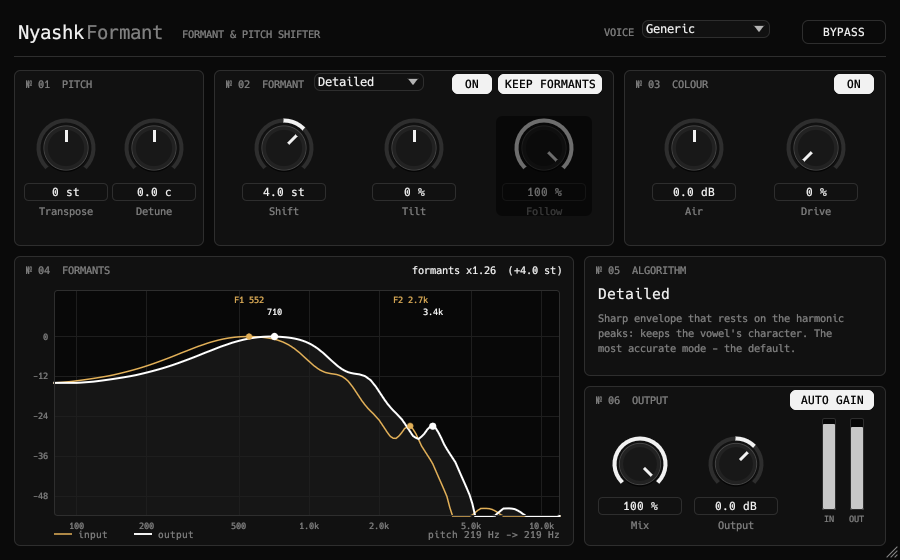
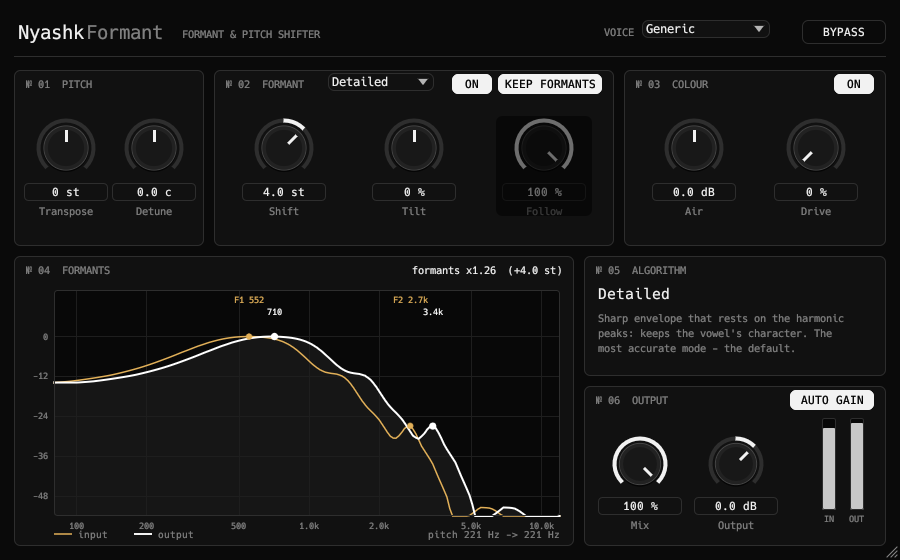
Check pass: HF boost cap, visual states, more tests
Formant filter boost fades out above 8 kHz (no hiss at big shifts with
Tilt). GUI: bypassed / formant-off states in the formant view, Tilt
dimmed for Classic, pitch readout held between syllables, ON tooltip
fixed, algorithm box no longer touches its label. Tests: automation of
every knob, +-12 st with full Tilt, 44.1 and 96 kHz.

Claude-Session: https://claude.ai/code/session_013jKKu2jZ6gVHt6eEoTXE3F

diff --git a/plugins/nyashkformant/tests/formant_quality.rs b/plugins/nyashkformant/tests/formant_quality.rs
@@ -150,6 +150,47 @@ fn worst_jump(x: &[f32]) -> f64 {
     worst
 }
 
+/// Clicks: a step in the waveform is broadband, so it adds energy at the very top of the spectrum.
+/// The shifter leaves everything above 16 kHz at unity gain, so the energy above 17 kHz of the
+/// output should match the input's, block by block (20 ms). Returns the worst excess in dB.
+/// Run with Auto Gain off (it lifts the whole output, the untouched top octave included).
+fn hf_excess(x: &[f32], y: &[f32]) -> f64 {
+    let hp = |z: &[f32]| -> Vec<f64> {
+        // 4th-order Butterworth high-pass at 17 kHz (two biquads)
+        let mut v: Vec<f64> = z.iter().map(|s| *s as f64).collect();
+        for q in [0.5412f64, 1.3066] {
+            let w0 = 2.0 * PI * 17000.0 / FS;
+            let (cw, sw) = (w0.cos(), w0.sin());
+            let alpha = sw / (2.0 * q);
+            let (b0, b1, b2) = ((1.0 + cw) / 2.0, -(1.0 + cw), (1.0 + cw) / 2.0);
+            let (a0, a1, a2) = (1.0 + alpha, -2.0 * cw, 1.0 - alpha);
+            let (mut x1, mut x2, mut y1, mut y2) = (0.0, 0.0, 0.0, 0.0);
+            for s in v.iter_mut() {
+                let o = (b0 * *s + b1 * x1 + b2 * x2 - a1 * y1 - a2 * y2) / a0;
+                x2 = x1;
+                x1 = *s;
+                y2 = y1;
+                y1 = o;
+                *s = o;
+            }
+        }
+        v
+    };
+    let (hx, hy) = (hp(x), hp(y));
+    let n = hx.len().min(hy.len());
+    let blk = 960;
+    let floor = hx.iter().map(|v| v * v).sum::<f64>() / n as f64 * blk as f64 * 0.05;
+    let g2 = 1.0;
+    let mut worst = -100.0f64;
+    for b in (blk..n - blk).step_by(blk) {
+        let ex: f64 = hx[b..b + blk].iter().map(|v| v * v).sum();
+        let ey: f64 = hy[b..b + blk].iter().map(|v| v * v).sum();
+        let v = 10.0 * ((ey + floor * g2) / ((ex + floor) * g2)).log10();
+        worst = worst.max(v);
+    }
+    worst
+}
+
 const AH: [(f64, f64); 3] = [(700.0, 90.0), (1150.0, 110.0), (2700.0, 160.0)];
 
 #[test]
@@ -209,10 +250,18 @@ fn no_clicks_in_any_mode() {
     let ref_jump = worst_jump(&x);
     for mode in [FormantMode::Classic, FormantMode::Smooth, FormantMode::Detailed, FormantMode::Lpc, FormantMode::Bend] {
         for (st, tr) in [(5.0f32, 0.0f32), (-5.0, 0.0), (3.0, -5.0), (-3.0, 7.0)] {
-            let y = run(&x, &params(mode, st, tr));
-            let j = worst_jump(&y);
+            let mut p = params(mode, st, tr);
+            p.auto_gain = false;
+            let y = run(&x, &p);
             assert!(y.iter().all(|v| v.is_finite()));
-            assert!(j < (ref_jump * 1.6).max(14.0), "{mode:?} shift {st} transpose {tr}: jump {j:.1} (input {ref_jump:.1})");
+            if tr == 0.0 {
+                let h = hf_excess(&x, &y);
+                assert!(h < 3.0, "{mode:?} shift {st}: {h:.1} dB more energy above 17 kHz (clicks)");
+            } else {
+                // transposed: the top octave moves too, so look at the waveform steps instead
+                let j = worst_jump(&y);
+                assert!(j < (ref_jump * 1.6).max(14.0), "{mode:?} shift {st} transpose {tr}: jump {j:.1} (input {ref_jump:.1})");
+            }
         }
     }
 }
@@ -228,5 +277,107 @@ fn neutral_settings_are_transparent() {
     let snr = 10.0 * (sig / err).log10();
     eprintln!("neutral: SNR {snr:.1} dB");
     assert!(snr > 25.0, "neutral settings change the sound: SNR {snr:.1} dB");
+}
+
+
+/// Moving the knobs while the voice plays (shift sweep, transpose steps, algorithm switches)
+/// must not click either.
+#[test]
+fn automation_does_not_click() {
+    let x = vowel(50.0, 4.0, &AH);
+    let mut p = params(FormantMode::Detailed, 0.0, 0.0);
+    p.auto_gain = false;
+    let mut e = Engine::new(FS, p.min_hz);
+    e.set_params(&p);
+    let mut y = Vec::with_capacity(x.len());
+    // the spectral modes leave the top octave alone, so clicks show there (Classic resamples the
+    // whole grain and transposing changes the pulse rate: both are checked by the waveform steps
+    // in no_clicks_in_any_mode)
+    let modes = [FormantMode::Smooth, FormantMode::Detailed, FormantMode::Lpc, FormantMode::Bend];
+    for (i, &s) in x.iter().enumerate() {
+        if i % 512 == 0 {
+            let t = i as f64 / FS;
+            p.formant_semis = (12.0 * (2.0 * PI * 0.4 * t).sin()) as f32;
+            p.transpose = 0.0;
+            p.formant_mode = modes[(t / 0.45) as usize % modes.len()];
+            p.formant_preserve = (t / 1.3) as usize % 2 == 0;
+            p.formant_follow = 0.5;
+            p.formant_tilt = (0.8 * (2.0 * PI * 0.3 * t).cos()) as f32;
+            e.set_params(&p);
+        }
+        y.push(e.process_frame([s, s], 1)[0]);
+    }
+    let h = hf_excess(&x[(0.2 * FS) as usize..], &y[(0.2 * FS) as usize..]);
+    eprintln!("automation: {h:+.1} dB above 17 kHz");
+    assert!(y.iter().all(|v| v.is_finite()));
+    assert!(h < 3.0, "{h:.1} dB more energy above 17 kHz (clicks)");
+}
+
+/// The same checks at 44.1 and 96 kHz (FFT sizes and analysis lengths depend on the rate).
+#[test]
+fn other_sample_rates() {
+    for fs in [44100.0f64, 96000.0] {
+        // resample the 48 kHz vowel by linear interpolation (a smooth signal: good enough)
+        let x48 = vowel(50.0, 3.0, &AH);
+        let n = (x48.len() as f64 * fs / FS) as usize;
+        let x: Vec<f32> = (0..n)
+            .map(|i| {
+                let pos = i as f64 * FS / fs;
+                let k = (pos as usize).min(x48.len() - 2);
+                let fr = (pos - k as f64) as f32;
+                x48[k] * (1.0 - fr) + x48[k + 1] * fr
+            })
+            .collect();
+        for (st, tr) in [(4.0f32, 0.0f32), (-4.0, 0.0), (0.0, 7.0)] {
+            let p = params(FormantMode::Detailed, st, tr);
+            let mut e = Engine::new(fs, p.min_hz);
+            e.set_params(&p);
+            let lat = e.latency_samples() as usize;
+            let mut y = Vec::new();
+            for &s in x.iter().chain(std::iter::repeat(&0.0).take(lat)) {
+                y.push(e.process_frame([s, s], 1)[0]);
+            }
+            let y = &y[lat..];
+            assert!(y.iter().all(|v| v.is_finite()));
+            // back to 48 kHz for the measurements
+            let back = |z: &[f32]| -> Vec<f32> {
+                let m = (z.len() as f64 * FS / fs) as usize;
+                (0..m)
+                    .map(|i| {
+                        let pos = i as f64 * fs / FS;
+                        let k = (pos as usize).min(z.len() - 2);
+                        let fr = (pos - k as f64) as f32;
+                        z[k] * (1.0 - fr) + z[k + 1] * fr
+                    })
+                    .collect()
+            };
+            let (xb, yb) = (back(&x), back(y));
+            let got = envelope_shift(&xb, &yb);
+            let pr = f0(&yb) / f0(&xb);
+            let want_p = 2f64.powf(tr as f64 / 12.0);
+            eprintln!("{fs} Hz shift {st:+} transpose {tr:+}: envelope {got:+.2} st, pitch ratio {pr:.3}");
+            assert!((got - st as f64).abs() < 0.25 * st.abs().max(2.0) as f64, "{fs}: envelope moved {got:.2}");
+            assert!((pr / want_p - 1.0).abs() < 0.015, "{fs}: pitch ratio {pr:.3}");
+        }
+    }
+}
+
+#[test]
+fn big_shifts_do_not_click() {
+    let x = vowel(50.0, 2.5, &AH);
+    for mode in [FormantMode::Classic, FormantMode::Smooth, FormantMode::Detailed, FormantMode::Lpc, FormantMode::Bend] {
+        for (st, tilt) in [(12.0f32, 0.0f32), (-12.0, 0.0), (9.0, 0.8), (-9.0, -0.8), (12.0, -0.8), (-12.0, 0.8)] {
+            if mode == FormantMode::Classic && st > 0.0 {
+                continue; // resampling moves real content up there (checked by waveform steps)
+            }
+            let mut p = params(mode, st, 0.0);
+            p.formant_tilt = tilt;
+            p.auto_gain = false; // it lifts everything, the untouched top octave included
+            let y = run(&x, &p);
+            let h = hf_excess(&x, &y);
+            eprintln!("{mode:?} shift {st:+} tilt {tilt:+}: {h:+.1} dB above 17 kHz");
+            assert!(h < 3.0, "{mode:?} shift {st} tilt {tilt}: {h:.1} dB more energy above 17 kHz (clicks)");
+        }
+    }
 }
 

diff --git a/plugins/nyashkformant/src/editor.rs b/plugins/nyashkformant/src/editor.rs
@@ -36,6 +36,8 @@ struct Gui {
     env: [f32; ENV_N],
     env_ok: bool,
     last_env: f64,
+    hz: f32,
+    last_hz: f64,
 }
 
 fn set_norm<P: Param>(setter: &ParamSetter, p: &P, v: f32) {
@@ -282,7 +284,7 @@ pub fn create(params: Arc<NyashkFormantParams>, meters: Arc<Meters>) -> Option<B
     let size_state = editor_state.clone();
     create_egui_editor(
         editor_state,
-        Gui { in_lv: 0.0, out_lv: 0.0, env: [-120.0; ENV_N], env_ok: false, last_env: -10.0 },
+        Gui { in_lv: 0.0, out_lv: 0.0, env: [-120.0; ENV_N], env_ok: false, last_env: -10.0, hz: 0.0, last_hz: -10.0 },
         |ctx, _| {
             let mut v = egui::Visuals::dark();
             v.panel_fill = BG;
@@ -318,6 +320,38 @@ pub fn create(params: Arc<NyashkFormantParams>, meters: Arc<Meters>) -> Option<B
             DEMO.call_once(|| {
                 if let Some(v) = std::env::var("NYASHK_DEMO_SHIFT").ok().and_then(|v| v.parse::<f32>().ok()) {
                     set_norm(setter, &p.shift, p.shift.preview_normalized(v));
+                }
+                // NYASHK_DEMO_SET="transpose=7,keep=0,algo=4,..." (screenshots of other states)
+                for kv in std::env::var("NYASHK_DEMO_SET").unwrap_or_default().split(',') {
+                    let Some((k, v)) = kv.split_once('=') else { continue };
+                    let Ok(v) = v.trim().parse::<f32>() else { continue };
+                    let fp = match k.trim() {
+                        "transpose" => Some(&p.transpose),
+                        "detune" => Some(&p.detune),
+                        "shift" => Some(&p.shift),
+                        "tilt" => Some(&p.tilt),
+                        "follow" => Some(&p.follow),
+                        "air" => Some(&p.air),
+                        "drive" => Some(&p.drive),
+                        "mix" => Some(&p.mix),
+                        "out" => Some(&p.out_gain),
+                        _ => None,
+                    };
+                    if let Some(fp) = fp {
+                        set_norm(setter, fp, fp.preview_normalized(v));
+                        continue;
+                    }
+                    match k.trim() {
+                        "formanton" => set_b(setter, &p.formant_on, v > 0.5),
+                        "keep" => set_b(setter, &p.keep_formants, v > 0.5),
+                        "colour" => set_b(setter, &p.colour_on, v > 0.5),
+                        "autogain" => set_b(setter, &p.auto_gain, v > 0.5),
+                        "bypass" => set_b(setter, &p.bypass, v > 0.5),
+                        "algo" => set_e(setter, &p.fmode, FormantAlgo::from_index(v as usize)),
+                        "range" => set_e(setter, &p.range, VoiceRange::from_index(v as usize)),
+                        "size" => size_state.set_requested_size((v as u32, (v * BASE_H / BASE_W) as u32)),
+                        _ => {}
+                    }
                 }
             });
             // ---- meters and the envelope
@@ -374,10 +408,10 @@ pub fn create(params: Arc<NyashkFormantParams>, meters: Arc<Meters>) -> Option<B
                 panel(ui, r02, "№ 02  FORMANT");
                 let fon = p.formant_on.value();
                 let algo = p.fmode.value();
-                if let Some(nv) = enum_combo::<FormantAlgo>(ui, "algo", rect(214.0 + 100.0, y1 + 3.0, 132.0, 22.0), algo, algo.name()) {
+                if let Some(nv) = enum_combo::<FormantAlgo>(ui, "algo", rect(214.0 + 114.0, y1 + 3.0, 128.0, 22.0), algo, algo.name()) {
                     set_e(setter, &p.fmode, nv);
                 }
-                if pill(ui, rect(214.0 + 400.0 - 12.0 - 104.0 - 6.0 - 40.0, y1 + 4.0, 40.0, 20.0), "ON", fon, "Formant processing on / off.\nOff: the formants follow the pitch like a plain pitch shifter.") {
+                if pill(ui, rect(214.0 + 400.0 - 12.0 - 104.0 - 6.0 - 40.0, y1 + 4.0, 40.0, 20.0), "ON", fon, "Formant processing on / off.\nOff: the formants are left alone (Transpose still keeps them);\nShift, Tilt and Follow do nothing.") {
                     set_b(setter, &p.formant_on, !fon);
                 }
                 let keep = p.keep_formants.value();
@@ -389,9 +423,15 @@ pub fn create(params: Arc<NyashkFormantParams>, meters: Arc<Meters>) -> Option<B
                 knob(ui, setter, &p.follow, "Follow", "fo", at(214.0 + 330.0, ky), 30.0, "How much the formants follow Transpose when KEEP FORMANTS is off.", false);
                 if !fon {
                     painter.rect_filled(Rect::from_min_max(r02.min + Vec2::new(1.0, 30.0), r02.max - Vec2::splat(1.0)), CornerRadius::same(6), Color32::from_black_alpha(150));
-                } else if keep {
-                    let fr = Rect::from_center_size(at(214.0 + 330.0, ky + 18.0), Vec2::new(96.0, 100.0));
-                    painter.rect_filled(fr, CornerRadius::same(6), Color32::from_black_alpha(140));
+                } else {
+                    if keep {
+                        let fr = Rect::from_center_size(at(214.0 + 330.0, ky + 18.0), Vec2::new(96.0, 100.0));
+                        painter.rect_filled(fr, CornerRadius::same(6), Color32::from_black_alpha(140));
+                    }
+                    if algo == FormantAlgo::Classic {
+                        let fr = Rect::from_center_size(at(214.0 + 200.0, ky + 18.0), Vec2::new(96.0, 100.0));
+                        painter.rect_filled(fr, CornerRadius::same(6), Color32::from_black_alpha(140));
+                    }
                 }
 
                 // 03 colour
@@ -415,7 +455,14 @@ pub fn create(params: Arc<NyashkFormantParams>, meters: Arc<Meters>) -> Option<B
                 panel(ui, r04, "№ 04  FORMANTS");
                 let s = p.formant_factor().clamp(0.4, 2.5);
                 let st_sh = 12.0 * s.log2();
-                painter.text(at(14.0 + 560.0 - 12.0, y2 + 14.0), Align2::RIGHT_CENTER, format!("formants x{:.2}  ({:+.1} st)", s, st_sh), mono(10.0), if (s - 1.0).abs() > 0.003 { WHITE } else { DIM });
+                let head = if byp {
+                    ("bypassed".to_string(), DIM)
+                } else if !fon {
+                    ("formant processing off".to_string(), DIM)
+                } else {
+                    (format!("formants x{:.2}  ({:+.1} st)", s, st_sh), if (s - 1.0).abs() > 0.003 { WHITE } else { DIM })
+                };
+                painter.text(at(14.0 + 560.0 - 12.0, y2 + 14.0), Align2::RIGHT_CENTER, head.0, mono(10.0), head.1);
                 let g = Rect::from_min_max(at(14.0 + 40.0, y2 + 34.0), at(14.0 + 560.0 - 14.0, y2 + h2 - 30.0));
                 painter.rect_filled(g, CornerRadius::same(3), Color32::from_rgb(8, 8, 8));
                 let (f_lo, f_hi) = (env_freq(0) as f32, env_freq(ENV_N - 1) as f32);
@@ -498,9 +545,14 @@ pub fn create(params: Arc<NyashkFormantParams>, meters: Arc<Meters>) -> Option<B
                 painter.text(at(14.0 + 64.0, ly), Align2::LEFT_CENTER, "input", mono(9.5), DIM);
                 painter.line_segment([at(14.0 + 120.0, ly), at(14.0 + 138.0, ly)], Stroke::new(2.0, WHITE));
                 painter.text(at(14.0 + 144.0, ly), Align2::LEFT_CENTER, "output", mono(9.5), DIM);
-                let hz = meters.hz.load(Ordering::Relaxed);
-                let voiced = meters.voiced.load(Ordering::Relaxed) != 0;
-                if voiced && hz > 20.0 && !byp {
+                let hz_now = meters.hz.load(Ordering::Relaxed);
+                if meters.voiced.load(Ordering::Relaxed) != 0 && hz_now > 20.0 {
+                    st.hz = if now - st.last_hz > 0.3 { hz_now } else { st.hz + (hz_now - st.hz) * 0.3 };
+                    st.last_hz = now;
+                }
+                let hz = st.hz;
+                // hold the last pitch for a moment (the detector drops out between syllables)
+                if now - st.last_hz < 0.8 && hz > 20.0 && !byp {
                     let ratio = 2f32.powf((p.transpose.value() + p.detune.value() / 100.0) / 12.0);
                     painter.text(at(14.0 + 560.0 - 14.0, ly), Align2::RIGHT_CENTER, format!("pitch {:.0} Hz -> {:.0} Hz", hz, hz * ratio), mono(9.5), DIM);
                 }

diff --git a/plugins/nyashkformant/src/formant.rs b/plugins/nyashkformant/src/formant.rs
@@ -413,12 +413,18 @@ impl FormantShifter {
                 let e_src = self.env[i0] * (1.0 - fr) + self.env[i1] * fr;
                 (e_src - self.env[k]).clamp(-9.2, 2.3)
             };
-            self.lm[k] = lg;
+            // Above 8 kHz the envelope is mostly breath and noise floor: allow less and less boost
+            // there (+20 dB at 8 kHz -> 0 dB at 16 kHz), or a big upward shift with Tilt turns the
+            // top octave into hiss.
+            let cap = 2.3 * (1.0 - ((fk - 8000.0) / 8000.0).clamp(0.0, 1.0));
+            self.lm[k] = lg.min(cap);
         }
-        // above 14 kHz: the gain reached there, held (no step)
+        // above 14 kHz: fade the gain reached there back to unity by 16 kHz (no step)
         let hold = self.lm[kmax];
+        let kend = ((16000.0 * n as f64 / fs) as usize).max(kmax + 1);
         for k in kmax + 1..=half {
-            self.lm[k] = hold;
+            let t = ((k - kmax) as f64 / (kend - kmax) as f64).min(1.0);
+            self.lm[k] = hold * (1.0 - t);
         }
         // The gain curve as an impulse response must stay well inside the grain, or the grain edges
         // get cut off after filtering (a click every period). Make the linear gain, window its

diff --git a/README.md b/README.md
@@ -51,7 +51,7 @@ Latency ≈ 27–37 ms (reported to the host), depending on the voice range.
 
 ### Tested
 
-`cargo test -p nyashkformant` checks on synthetic vowels at low and high pitch: every algorithm moves the spectral envelope by the asked amount (±25 %, LPC ±50 %) while the pitch stays within 1 %; Transpose keeps the formants; Auto Gain keeps the level within 1.5 dB for ±7 / +12 st and ±6 st formant shifts; no clicks in any mode; neutral settings are transparent; plus fuzzing of the engine.
+`cargo test -p nyashkformant` checks on synthetic vowels at low and high pitch: every algorithm moves the spectral envelope by the asked amount (±25 %, LPC ±50 %) while the pitch stays within 1 %; Transpose keeps the formants; Auto Gain keeps the level within 1.5 dB for −7 / +7 / +12 st transposes and ±6 st formant shifts; no clicks in any mode, at ±12 st with full Tilt, or while every knob is automated; the same at 44.1 and 96 kHz; neutral settings are transparent; plus fuzzing of the engine.
 
 ---
 

diff --git a/RELEASE_NOTES.md b/RELEASE_NOTES.md
@@ -9,4 +9,5 @@ First release: the formant section of NyashkTune 1.x as its own plugin, reworked
 - The filtered grains are overlap-added whole, tails included: no clicks with sharp envelopes.
 - AUTO GAIN keeps the level when transposing or shifting (was up to −6 dB for +12 st, −13 dB for a high voice).
 - Neutral settings pass the input bit-exact.
+- Above 8 kHz the formant filter boosts less and less (none above 16 kHz): big upward shifts with Tilt no longer turn the top octave into hiss.
 - Live formant view: input and output envelopes with the formant peaks.
